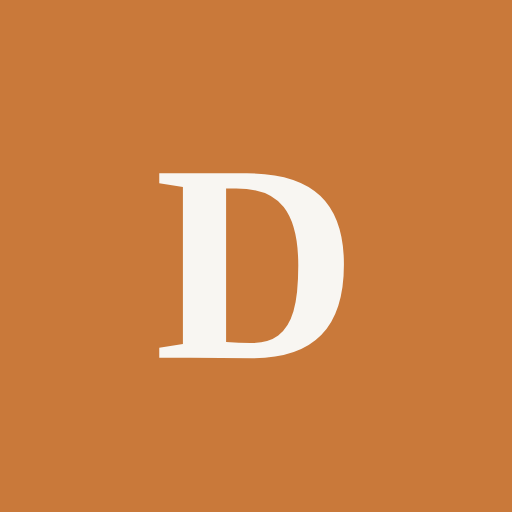
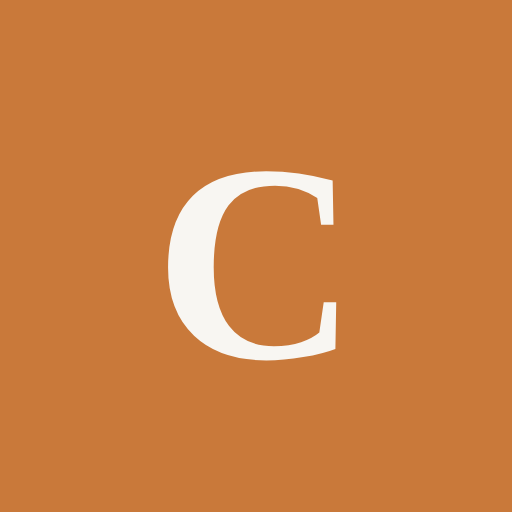
Rename app to Congener
Replaces leftover Base44 scaffolding branding (page title, PWA manifest,
package.json name, README) and the old "Distillery OS" in-app brand text
with "Congener" throughout, and regenerates the app icon with a "C"
monogram to match.

Claude-Session: https://claude.ai/code/session_01B3UC2aWbEXw2Mf9ggus9L8

Changed region(s): [[0.3125, 0.3125, 0.6875, 0.7188]]

diff --git a/index.html b/index.html
@@ -9,9 +9,9 @@
     <meta name="mobile-web-app-capable" content="yes" />
     <meta name="apple-mobile-web-app-capable" content="yes" />
     <meta name="apple-mobile-web-app-status-bar-style" content="black-translucent" />
-    <meta name="apple-mobile-web-app-title" content="Distillery Cloud" />
+    <meta name="apple-mobile-web-app-title" content="Congener" />
     <link rel="manifest" href="/manifest.json" />
-    <title>Distillery Cloud</title>
+    <title>Congener</title>
   </head>
   <body>
     <div id="root"></div>

diff --git a/src/components/layout/TopNav.jsx b/src/components/layout/TopNav.jsx
@@ -79,7 +79,7 @@ export default function TopNav() {
       {/* Row 1: brand, top-level pages, groups, user menu */}
       <div ref={row1Ref} className="flex items-center gap-1 px-3 md:px-6 h-16 overflow-x-auto" style={scrollFadeStyle}>
         <Link to="/" className="font-display font-bold text-primary shrink-0 mr-2 whitespace-nowrap">
-          Distillery OS
+          Congener
         </Link>
 
         {topPages.map((p) => (

diff --git a/src/pages/Settings.jsx b/src/pages/Settings.jsx
@@ -41,7 +41,7 @@ export default function Settings() {
 
   return (
     <div>
-      <PageHeader title="Settings" subtitle="Configure and manage your Distillery OS">
+      <PageHeader title="Settings" subtitle="Configure and manage your Congener workspace">
         <SettingsSearch onSelect={handleSelect} isSuperAdmin={isSuperAdmin} />
       </PageHeader>
 

diff --git a/src/components/settings/DataExportPanel.jsx b/src/components/settings/DataExportPanel.jsx
@@ -63,7 +63,7 @@ export default function DataExportPanel() {
     try {
       const backup = {
         exported_at: new Date().toISOString(),
-        application: 'Distillery OS',
+        application: 'Congener',
         record_counts: {},
         data: {},
       };

diff --git a/README.md b/README.md
@@ -1,39 +1,20 @@
-**Welcome to your Base44 project** 
+**Congener**
 
-**About**
+Operations, compliance and environmental management for Bluff Distillery — built on Vite/React and Supabase.
 
-View and Edit  your app on [Base44.com](http://Base44.com) 
+**Local development**
 
-This project contains everything you need to run your app locally.
-
-**Edit the code in your local development environment**
-
-Any change pushed to the repo will also be reflected in the Base44 Builder.
-
-**Prerequisites:** 
-
-1. Clone the repository using the project's Git URL 
-2. Navigate to the project directory
-3. Install dependencies: `npm install`
-4. Create an `.env.local` file and set the right environment variables
+1. Clone the repository
+2. Install dependencies: `npm install`
+3. Create an `.env.local` file with your Supabase project details:
 
 ```
-VITE_BASE44_APP_ID=your_app_id
-VITE_BASE44_APP_BASE_URL=your_backend_url
-
-e.g.
-VITE_BASE44_APP_ID=cbef744a8545c389ef439ea6
-VITE_BASE44_APP_BASE_URL=https://my-to-do-list-81bfaad7.base44.app
+VITE_SUPABASE_URL=your_supabase_project_url
+VITE_SUPABASE_ANON_KEY=your_supabase_anon_key
 ```
 
-Run the app: `npm run dev`
+4. Run the app: `npm run dev`
 
-**Publish your changes**
+**Build**
 
-Open [Base44.com](http://Base44.com) and click on Publish.
-
-**Docs & Support**
-
-Documentation: [https://docs.base44.com/Integrations/Using-GitHub](https://docs.base44.com/Integrations/Using-GitHub)
-
-Support: [https://app.base44.com/support](https://app.base44.com/support)
+`npm run build`
